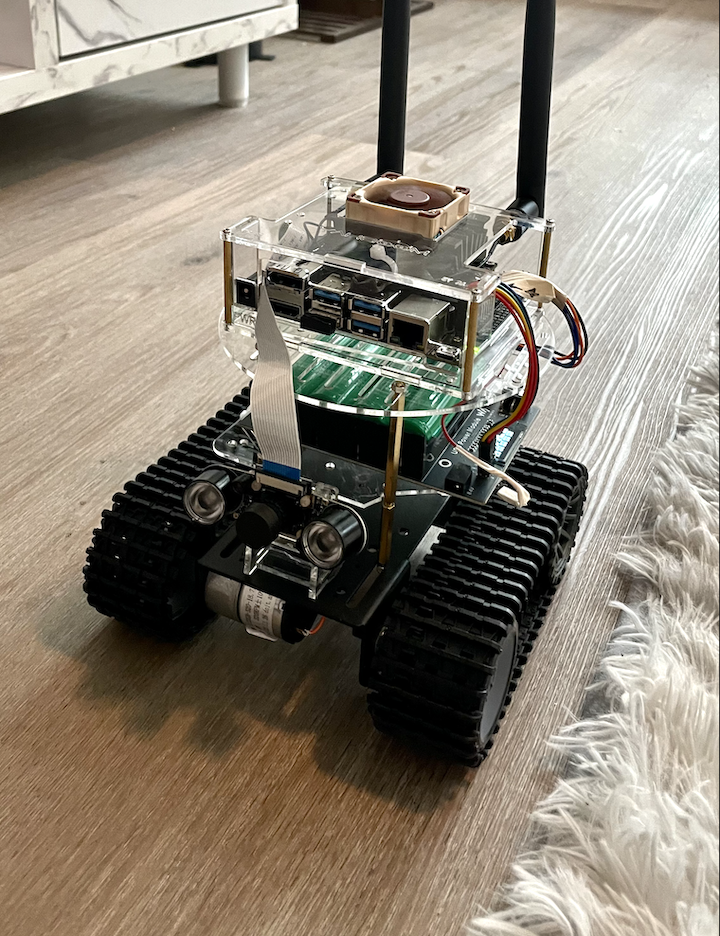
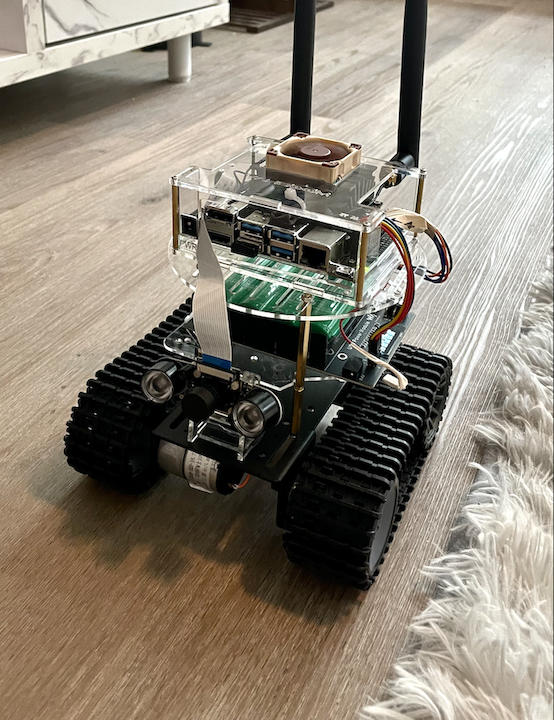
update post on learning

diff --git a/_posts/2023-04-12-Learning-an-environment.md b/_posts/2023-04-12-Learning-an-environment.md
@@ -11,5 +11,14 @@ hidden: false
 
 In the <a href="https://srjit.github.io/elementary-blocks-of-robotics/">previous post</a> we disussed on the basics of building a robot; mostly the electronics and mechanical components of it, and a little bit of the basic programming for motion. Here, we discuss making the robot a little more intelligent with some machine learning!
 
+It was my friend's suggestion to modify the robot's construction and use a tank chassis since the wheels weren't aligned enough resulting in sideways movement during forward motion. A tank track could also easily climb through the carpets and other uneven sufaces in my house. In addition, it can rotate or turn around itself any degree with minimal motion sideways. The picture shows the modified version of the robot. Although the mechanical parts have changed, this code that was used before is the same here to drive it.
 
+#### Additional Hardware
 
+##### Camera Module
+
+The camera that is being used here is <a href="https://www.aliexpress.us/item/2255800029242375.html">IMX219</a>, an infrared camera with 160 Degree FOV. It is assisted by two IR Leds on either sides as seen in the picture. The picture quality from this camera isn't great from my experience, however for our project this does decently well.
+
+##### Wireless
+
+For the wifi module, <a href="https://www.amazon.com/gp/product/B07SM4SPLV">this</a> Dual Mode AC8265 Wireless NIC Module is being used. Since python modules need to be installed, and some prebuilt models need to be downloaded, having a steady wifi connection would be a plus!

diff --git a/_posts/.#2023-04-12-Learning-an-environment.md b/_posts/.#2023-04-12-Learning-an-environment.md
@@ -1,0 +1,1 @@
+sreejithsreekumar@Sreejiths-MacBook-Pro.local.29746
